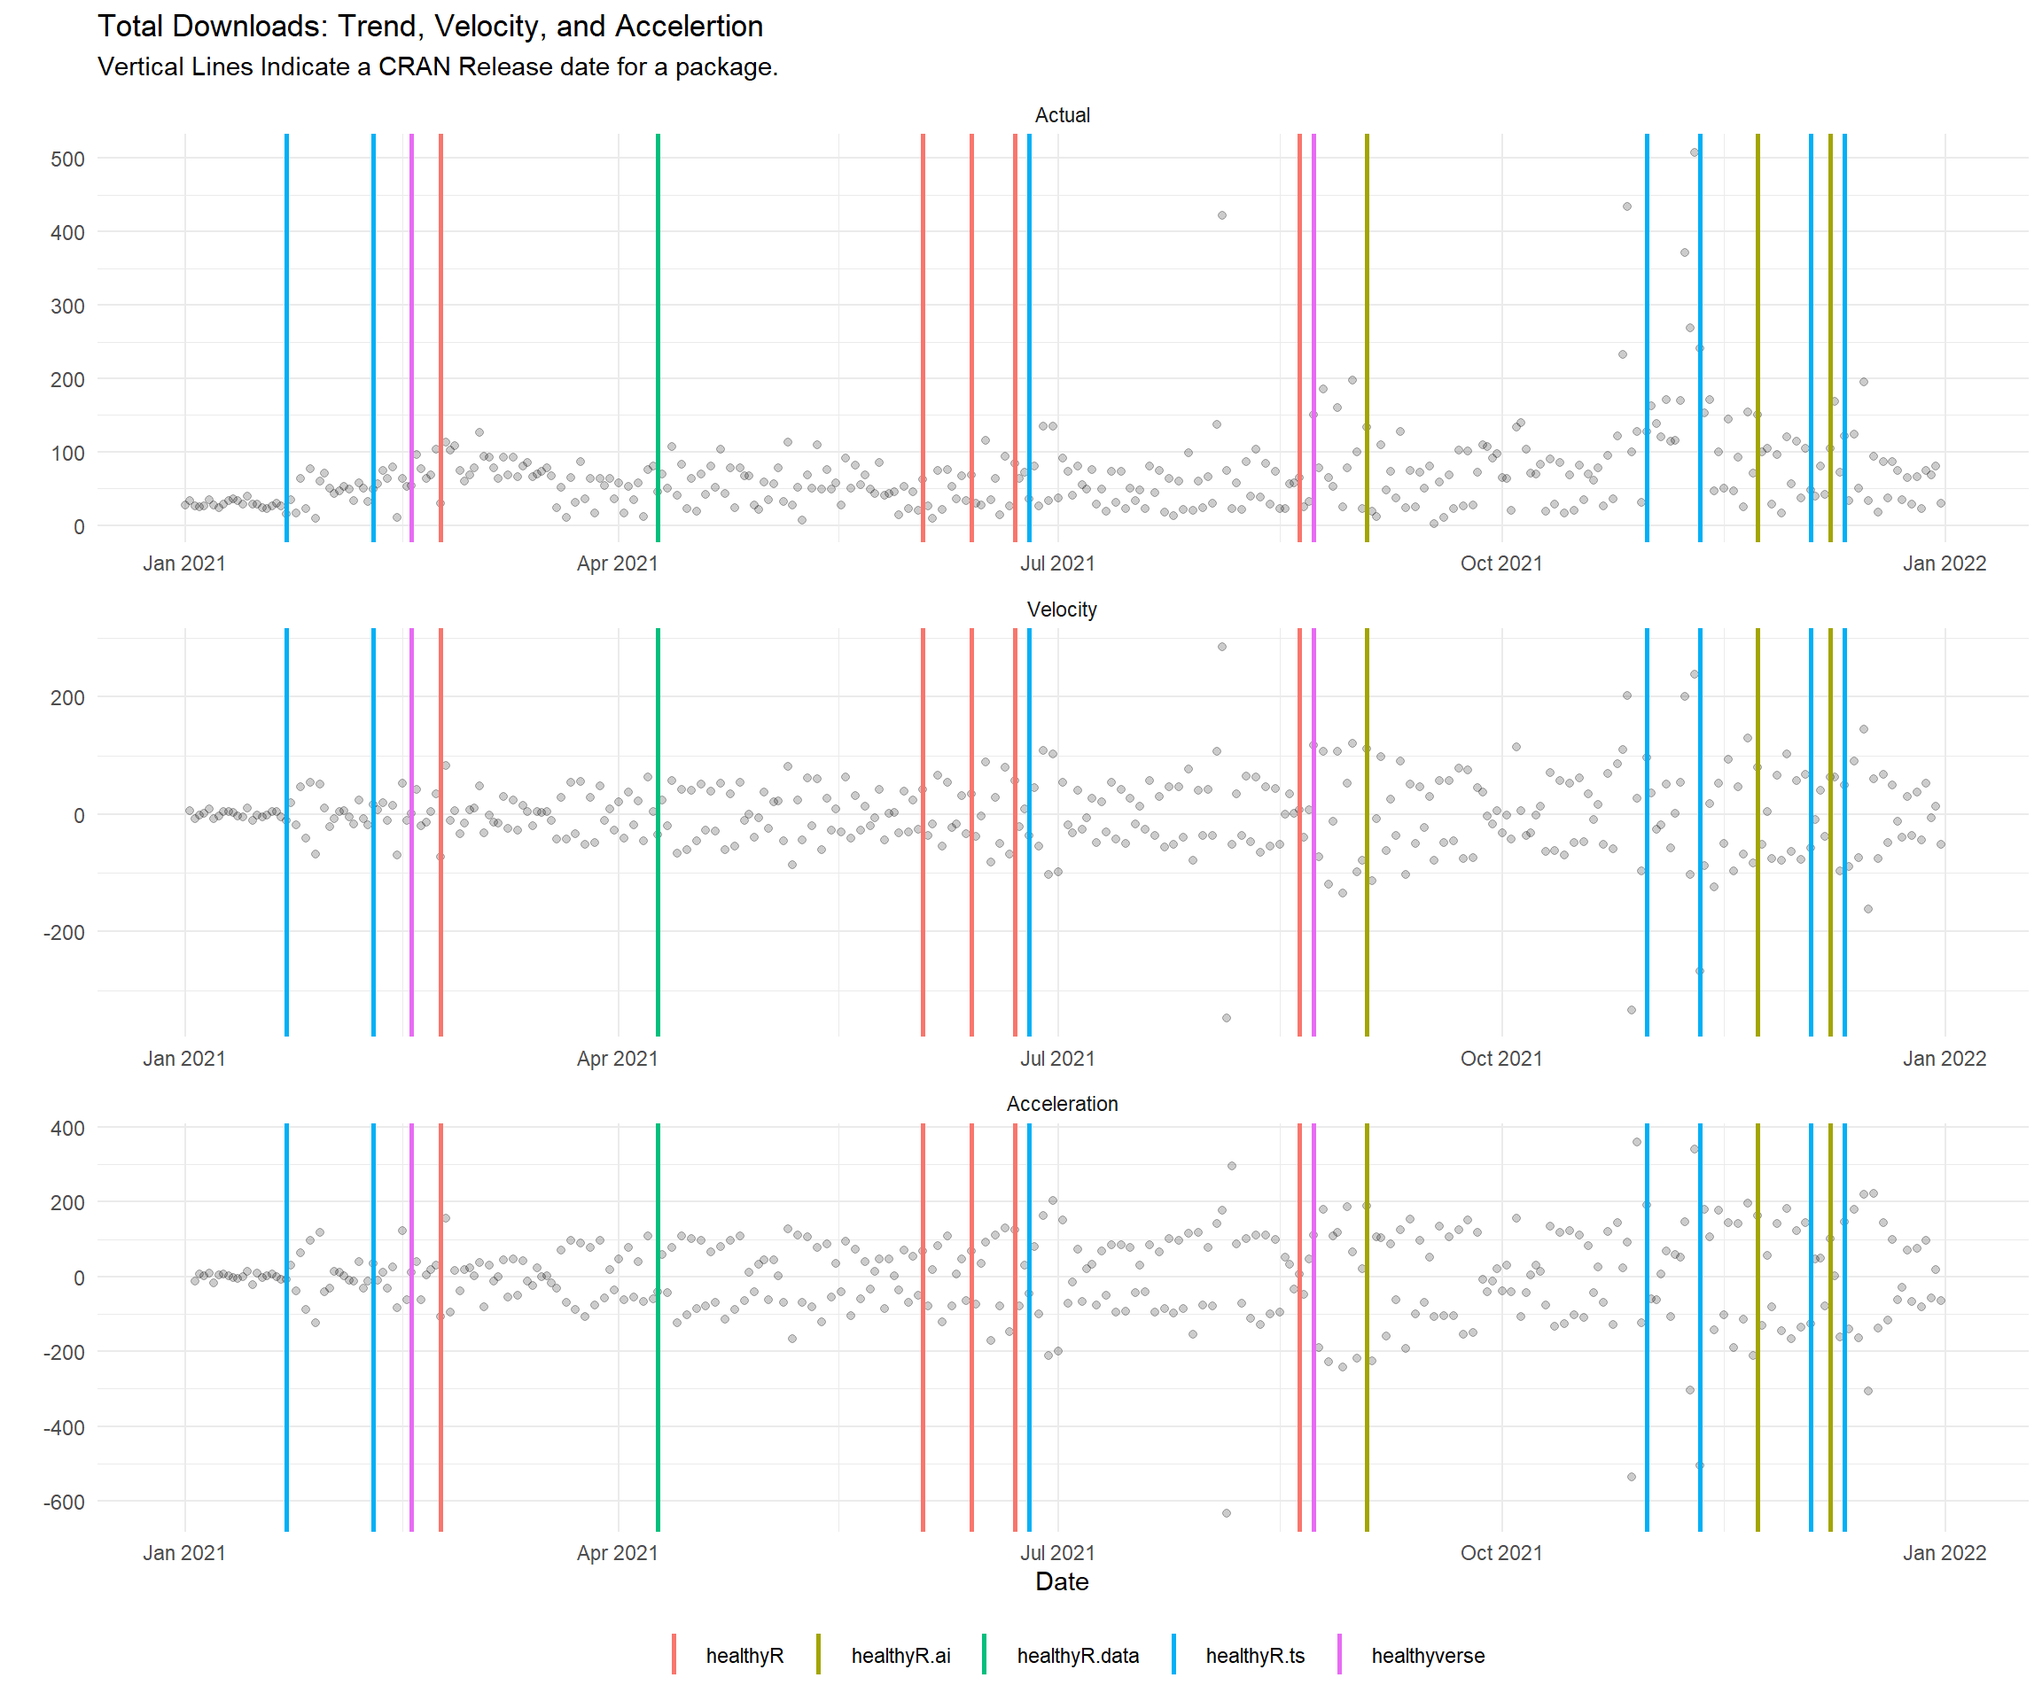
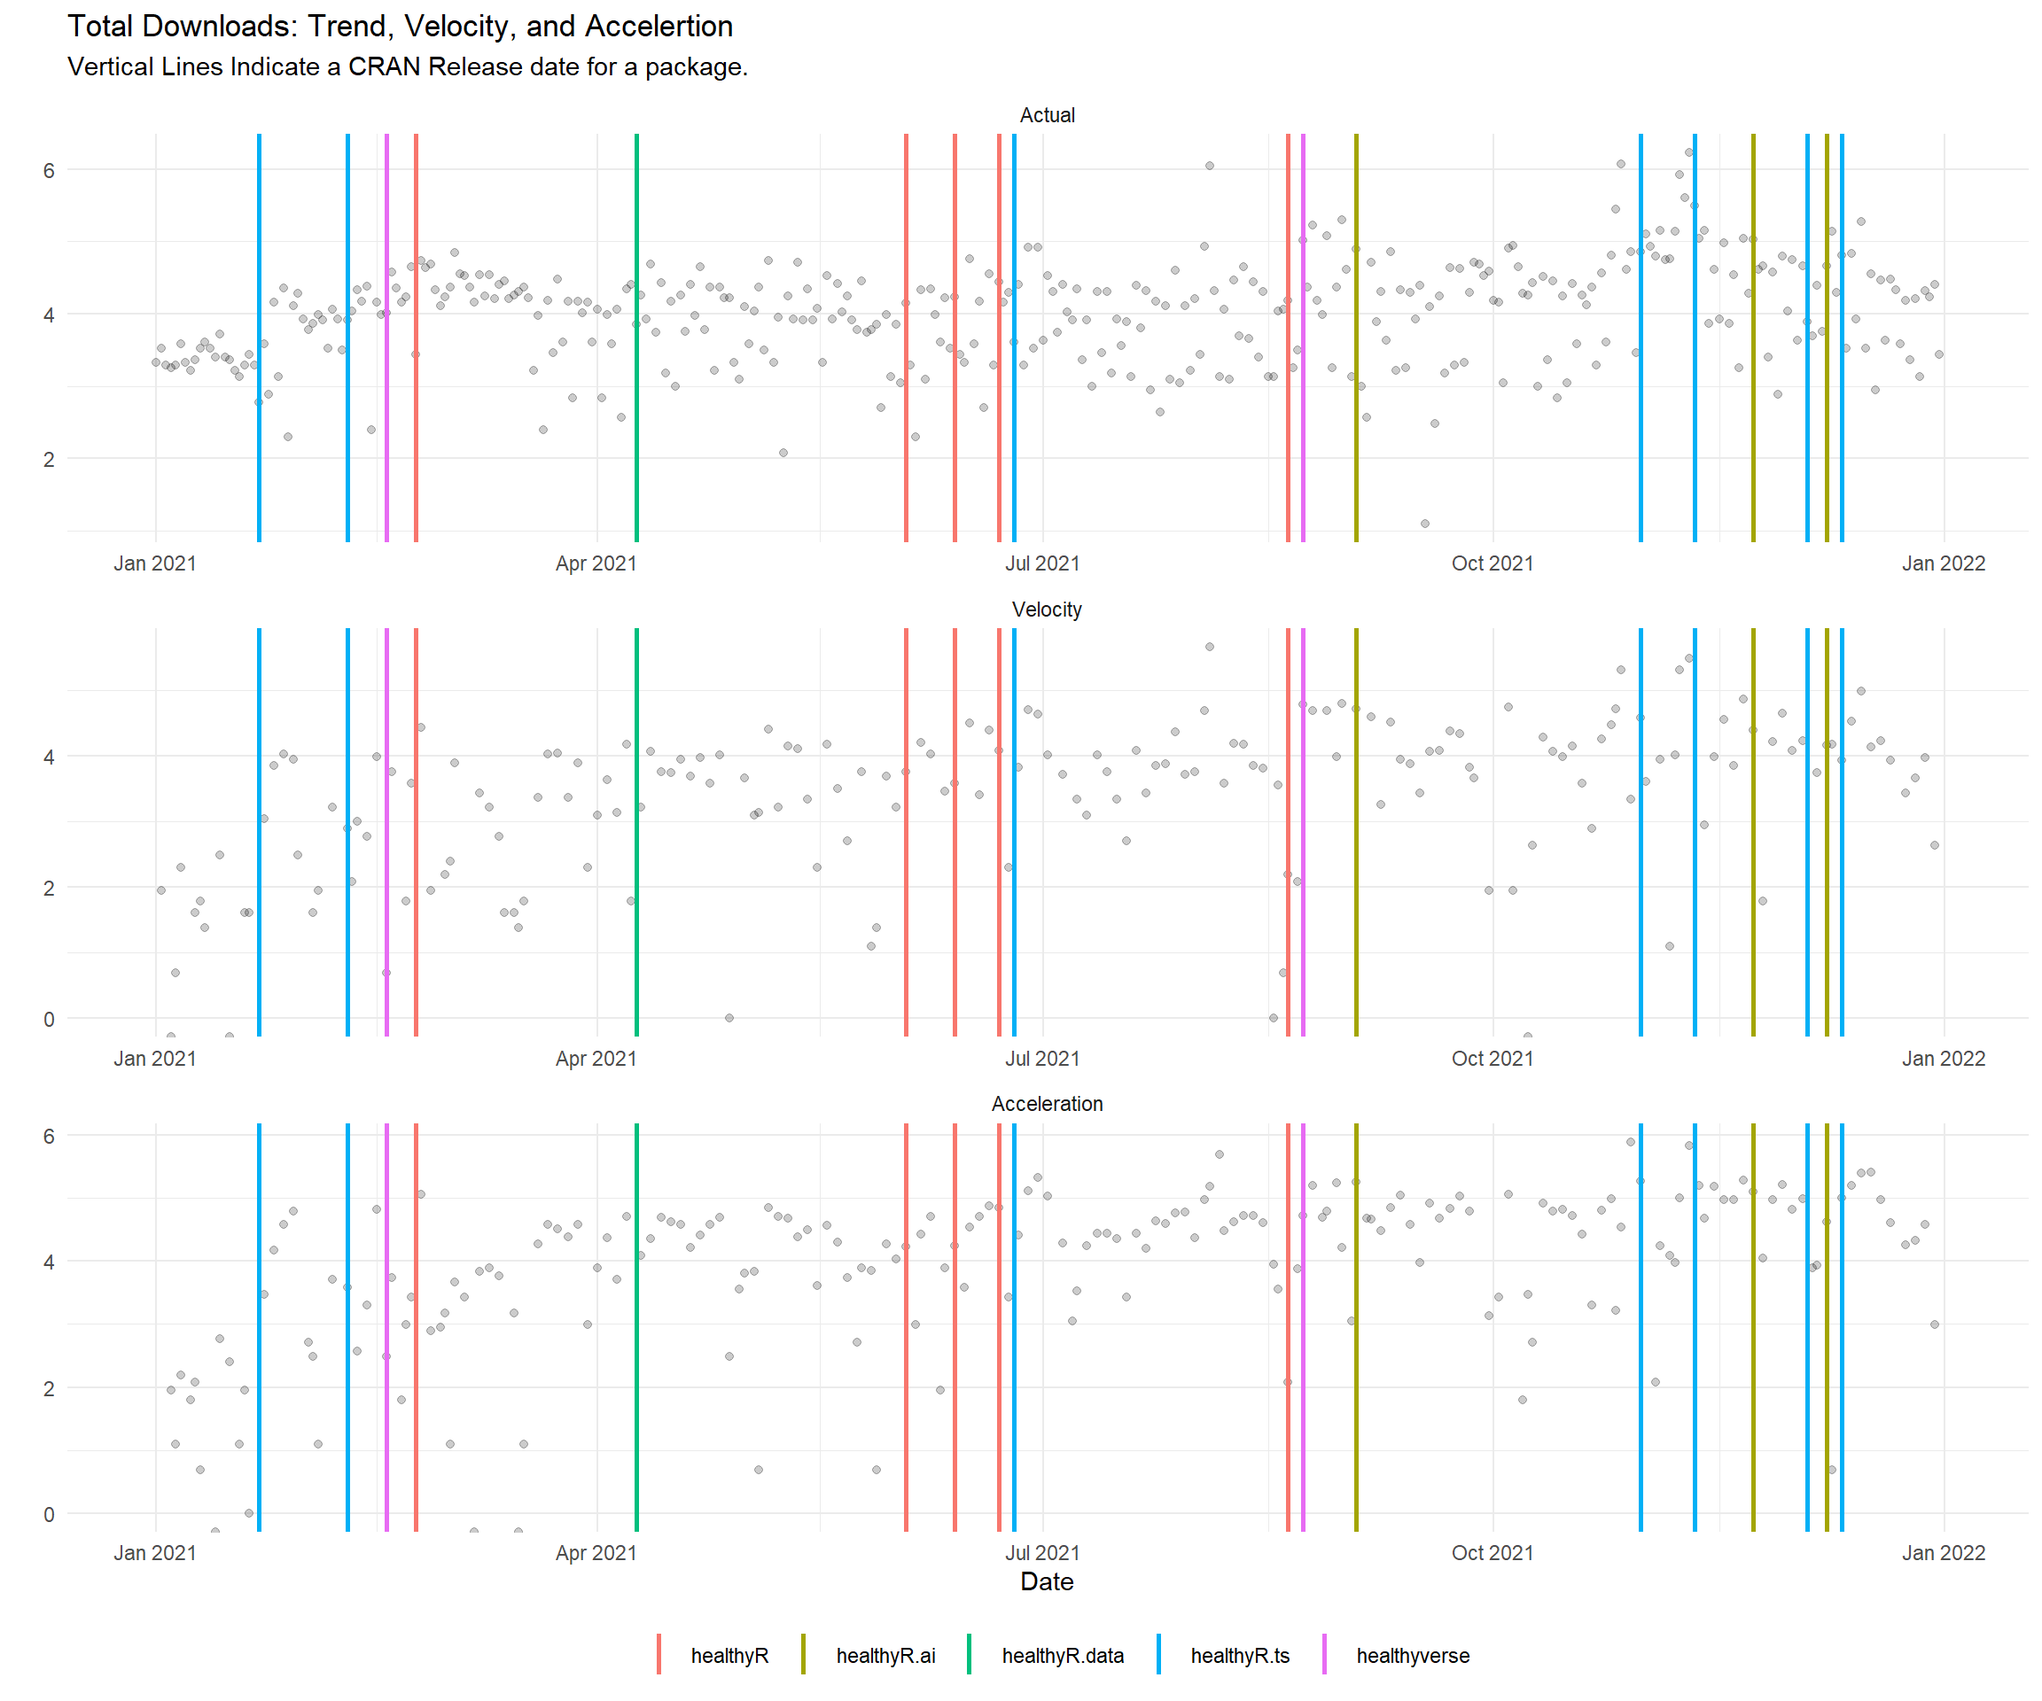
add mapping

diff --git a/year_review_2021.html b/year_review_2021.html
@@ -446,10 +446,11 @@ $(document).ready(function () {
 <span id="cb2-2"><a href="#cb2-2" aria-hidden="true" tabindex="-1"></a><span class="fu">library</span>(lubridate)</span>
 <span id="cb2-3"><a href="#cb2-3" aria-hidden="true" tabindex="-1"></a><span class="fu">source</span>(<span class="st">&quot;01_scripts/get_data_functions.R&quot;</span>)</span>
 <span id="cb2-4"><a href="#cb2-4" aria-hidden="true" tabindex="-1"></a><span class="fu">source</span>(<span class="st">&quot;01_scripts/data_manipulation_functions.R&quot;</span>)</span>
-<span id="cb2-5"><a href="#cb2-5" aria-hidden="true" tabindex="-1"></a></span>
-<span id="cb2-6"><a href="#cb2-6" aria-hidden="true" tabindex="-1"></a><span class="fu">get_cran_data</span>()</span>
-<span id="cb2-7"><a href="#cb2-7" aria-hidden="true" tabindex="-1"></a><span class="fu">get_package_release_data</span>()</span>
-<span id="cb2-8"><a href="#cb2-8" aria-hidden="true" tabindex="-1"></a><span class="fu">csv_to_rds</span>()</span></code></pre></div>
+<span id="cb2-5"><a href="#cb2-5" aria-hidden="true" tabindex="-1"></a><span class="fu">source</span>(<span class="st">&quot;01_scripts/mapping_functions.R&quot;</span>)</span>
+<span id="cb2-6"><a href="#cb2-6" aria-hidden="true" tabindex="-1"></a></span>
+<span id="cb2-7"><a href="#cb2-7" aria-hidden="true" tabindex="-1"></a><span class="fu">get_cran_data</span>()</span>
+<span id="cb2-8"><a href="#cb2-8" aria-hidden="true" tabindex="-1"></a><span class="fu">get_package_release_data</span>()</span>
+<span id="cb2-9"><a href="#cb2-9" aria-hidden="true" tabindex="-1"></a><span class="fu">csv_to_rds</span>()</span></code></pre></div>
 <p>Ok now that we have our data, lets ensure that we are only using the year 2021. We can do this by filtering out data by time with the <a href="https://business-science.github.io/timetk/">timetk</a> package.</p>
 <p>Now lets filter our data below, some pre-processing may need to take place.</p>
 <div class="sourceCode" id="cb3"><pre class="sourceCode r"><code class="sourceCode r"><span id="cb3-1"><a href="#cb3-1" aria-hidden="true" tabindex="-1"></a><span class="fu">library</span>(timetk)</span>
@@ -692,6 +693,7 @@ $(document).ready(function () {
 </tr>
 </tbody>
 </table>
+<p>So all in all there was a total of 24,887 downloads of all the <code>healthyverse</code> packages in 2021.</p>
 <p>Lets graph the data out as well.</p>
 <div class="sourceCode" id="cb8"><pre class="sourceCode r"><code class="sourceCode r"><span id="cb8-1"><a href="#cb8-1" aria-hidden="true" tabindex="-1"></a>data_tbl <span class="sc">%&gt;%</span></span>
 <span id="cb8-2"><a href="#cb8-2" aria-hidden="true" tabindex="-1"></a>  <span class="fu">count</span>(package, version) <span class="sc">%&gt;%</span></span>
@@ -789,7 +791,7 @@ $(document).ready(function () {
 <span id="cb13-8"><a href="#cb13-8" aria-hidden="true" tabindex="-1"></a>  <span class="fu">pivot_longer</span>(<span class="sc">-</span>date) <span class="sc">%&gt;%</span></span>
 <span id="cb13-9"><a href="#cb13-9" aria-hidden="true" tabindex="-1"></a>  <span class="fu">mutate</span>(<span class="at">name =</span> <span class="fu">str_to_title</span>(name)) <span class="sc">%&gt;%</span></span>
 <span id="cb13-10"><a href="#cb13-10" aria-hidden="true" tabindex="-1"></a>  <span class="fu">mutate</span>(<span class="at">name =</span> <span class="fu">as_factor</span>(name)) <span class="sc">%&gt;%</span></span>
-<span id="cb13-11"><a href="#cb13-11" aria-hidden="true" tabindex="-1"></a>  <span class="fu">ggplot</span>(<span class="fu">aes</span>(<span class="at">x =</span> date, <span class="at">y =</span> value, <span class="at">group =</span> name)) <span class="sc">+</span></span>
+<span id="cb13-11"><a href="#cb13-11" aria-hidden="true" tabindex="-1"></a>  <span class="fu">ggplot</span>(<span class="fu">aes</span>(<span class="at">x =</span> date, <span class="at">y =</span> <span class="fu">log1p</span>(value), <span class="at">group =</span> name)) <span class="sc">+</span></span>
 <span id="cb13-12"><a href="#cb13-12" aria-hidden="true" tabindex="-1"></a>  <span class="fu">geom_point</span>(<span class="at">alpha =</span> .<span class="dv">2</span>) <span class="sc">+</span></span>
 <span id="cb13-13"><a href="#cb13-13" aria-hidden="true" tabindex="-1"></a>  <span class="fu">geom_vline</span>(</span>
 <span id="cb13-14"><a href="#cb13-14" aria-hidden="true" tabindex="-1"></a>    <span class="at">data =</span> pkg_tbl</span>
@@ -808,6 +810,108 @@ $(document).ready(function () {
 <span id="cb13-27"><a href="#cb13-27" aria-hidden="true" tabindex="-1"></a>  ) <span class="sc">+</span></span>
 <span id="cb13-28"><a href="#cb13-28" aria-hidden="true" tabindex="-1"></a>  <span class="fu">theme</span>(<span class="at">legend.position =</span> <span class="st">&quot;bottom&quot;</span>)</span></code></pre></div>
 <p><img src="man/figures/README-ts_plots-3.png" width="1152" /></p>
+<div class="sourceCode" id="cb14"><pre class="sourceCode r"><code class="sourceCode r"><span id="cb14-1"><a href="#cb14-1" aria-hidden="true" tabindex="-1"></a>data_tbl <span class="sc">%&gt;%</span></span>
+<span id="cb14-2"><a href="#cb14-2" aria-hidden="true" tabindex="-1"></a>  <span class="fu">ts_downloads_tbl</span>(<span class="at">.by_time =</span> <span class="st">&quot;day&quot;</span>) <span class="sc">%&gt;%</span></span>
+<span id="cb14-3"><a href="#cb14-3" aria-hidden="true" tabindex="-1"></a>  <span class="fu">plot_seasonal_diagnostics</span>(</span>
+<span id="cb14-4"><a href="#cb14-4" aria-hidden="true" tabindex="-1"></a>    <span class="at">.date_var =</span> date,</span>
+<span id="cb14-5"><a href="#cb14-5" aria-hidden="true" tabindex="-1"></a>    <span class="at">.value =</span> <span class="fu">log1p</span>(value),</span>
+<span id="cb14-6"><a href="#cb14-6" aria-hidden="true" tabindex="-1"></a>    <span class="at">.interactive =</span> <span class="cn">FALSE</span></span>
+<span id="cb14-7"><a href="#cb14-7" aria-hidden="true" tabindex="-1"></a>  ) <span class="sc">+</span></span>
+<span id="cb14-8"><a href="#cb14-8" aria-hidden="true" tabindex="-1"></a>  <span class="fu">theme_minimal</span>() <span class="sc">+</span></span>
+<span id="cb14-9"><a href="#cb14-9" aria-hidden="true" tabindex="-1"></a>  <span class="fu">labs</span>(</span>
+<span id="cb14-10"><a href="#cb14-10" aria-hidden="true" tabindex="-1"></a>    <span class="at">title =</span> <span class="st">&quot;Seasonal Diagnostics&quot;</span>,</span>
+<span id="cb14-11"><a href="#cb14-11" aria-hidden="true" tabindex="-1"></a>    <span class="at">subtitle =</span> <span class="st">&quot;Values are log1p&quot;</span></span>
+<span id="cb14-12"><a href="#cb14-12" aria-hidden="true" tabindex="-1"></a>  )</span></code></pre></div>
+<p><img src="man/figures/README-ts_plots-4.png" width="1152" /></p>
+<div class="sourceCode" id="cb15"><pre class="sourceCode r"><code class="sourceCode r"><span id="cb15-1"><a href="#cb15-1" aria-hidden="true" tabindex="-1"></a>data_tbl <span class="sc">%&gt;%</span></span>
+<span id="cb15-2"><a href="#cb15-2" aria-hidden="true" tabindex="-1"></a>  <span class="fu">ts_downloads_tbl</span>(<span class="at">.by_time =</span> <span class="st">&quot;day&quot;</span>) <span class="sc">%&gt;%</span></span>
+<span id="cb15-3"><a href="#cb15-3" aria-hidden="true" tabindex="-1"></a>  <span class="fu">plot_stl_diagnostics</span>(</span>
+<span id="cb15-4"><a href="#cb15-4" aria-hidden="true" tabindex="-1"></a>    <span class="at">.date_var =</span> date,</span>
+<span id="cb15-5"><a href="#cb15-5" aria-hidden="true" tabindex="-1"></a>    <span class="at">.value =</span> <span class="fu">log1p</span>(value),</span>
+<span id="cb15-6"><a href="#cb15-6" aria-hidden="true" tabindex="-1"></a>    <span class="at">.interactive =</span> <span class="cn">FALSE</span></span>
+<span id="cb15-7"><a href="#cb15-7" aria-hidden="true" tabindex="-1"></a>  ) <span class="sc">+</span></span>
+<span id="cb15-8"><a href="#cb15-8" aria-hidden="true" tabindex="-1"></a>  <span class="fu">theme_minimal</span>() <span class="sc">+</span></span>
+<span id="cb15-9"><a href="#cb15-9" aria-hidden="true" tabindex="-1"></a>  <span class="fu">labs</span>(</span>
+<span id="cb15-10"><a href="#cb15-10" aria-hidden="true" tabindex="-1"></a>    <span class="at">title =</span> <span class="st">&quot;STL Diagnostics&quot;</span>,</span>
+<span id="cb15-11"><a href="#cb15-11" aria-hidden="true" tabindex="-1"></a>    <span class="at">subtitle =</span> <span class="st">&quot;Values are log1p&quot;</span></span>
+<span id="cb15-12"><a href="#cb15-12" aria-hidden="true" tabindex="-1"></a>  )</span></code></pre></div>
+<p><img src="man/figures/README-ts_plots-5.png" width="1152" /></p>
+</div>
+<div id="mapping" class="section level1">
+<h1>Mapping</h1>
+<p>So now that we have seen all the downloads in variaous ways, where did they all come from? Lets take a look.</p>
+<div class="sourceCode" id="cb16"><pre class="sourceCode r"><code class="sourceCode r"><span id="cb16-1"><a href="#cb16-1" aria-hidden="true" tabindex="-1"></a><span class="fu">library</span>(tmaptools)</span>
+<span id="cb16-2"><a href="#cb16-2" aria-hidden="true" tabindex="-1"></a><span class="fu">library</span>(countrycode)</span>
+<span id="cb16-3"><a href="#cb16-3" aria-hidden="true" tabindex="-1"></a><span class="fu">library</span>(mapview)</span>
+<span id="cb16-4"><a href="#cb16-4" aria-hidden="true" tabindex="-1"></a></span>
+<span id="cb16-5"><a href="#cb16-5" aria-hidden="true" tabindex="-1"></a><span class="fu">mapping_dataset</span>(<span class="at">.data_year =</span> <span class="st">&quot;2021&quot;</span>) <span class="sc">%&gt;%</span></span>
+<span id="cb16-6"><a href="#cb16-6" aria-hidden="true" tabindex="-1"></a>  <span class="fu">head</span>() <span class="sc">%&gt;%</span></span>
+<span id="cb16-7"><a href="#cb16-7" aria-hidden="true" tabindex="-1"></a>  knitr<span class="sc">::</span><span class="fu">kable</span>()</span></code></pre></div>
+<table>
+<colgroup>
+<col width="11%" />
+<col width="5%" />
+<col width="6%" />
+<col width="27%" />
+<col width="48%" />
+</colgroup>
+<thead>
+<tr class="header">
+<th align="left">country</th>
+<th align="right">latitude</th>
+<th align="right">longitude</th>
+<th align="left">display_name</th>
+<th align="left">icon</th>
+</tr>
+</thead>
+<tbody>
+<tr class="odd">
+<td align="left">Ghana</td>
+<td align="right">8.030028</td>
+<td align="right">-1.080027</td>
+<td align="left">Ghana</td>
+<td align="left"><a href="https://nominatim.openstreetmap.org/ui/mapicons//poi_boundary_administrative.p.20.png" class="uri">https://nominatim.openstreetmap.org/ui/mapicons//poi_boundary_administrative.p.20.png</a></td>
+</tr>
+<tr class="even">
+<td align="left">United States</td>
+<td align="right">39.783730</td>
+<td align="right">-100.445882</td>
+<td align="left">United States</td>
+<td align="left"><a href="https://nominatim.openstreetmap.org/ui/mapicons//poi_boundary_administrative.p.20.png" class="uri">https://nominatim.openstreetmap.org/ui/mapicons//poi_boundary_administrative.p.20.png</a></td>
+</tr>
+<tr class="odd">
+<td align="left">Hong Kong SAR China</td>
+<td align="right">22.350627</td>
+<td align="right">114.184916</td>
+<td align="left">&lt;U+9999&gt;&lt;U+6E2F&gt; Hong Kong, &lt;U+4E2D&gt;&lt;U+56FD&gt;</td>
+<td align="left"><a href="https://nominatim.openstreetmap.org/ui/mapicons//poi_boundary_administrative.p.20.png" class="uri">https://nominatim.openstreetmap.org/ui/mapicons//poi_boundary_administrative.p.20.png</a></td>
+</tr>
+<tr class="even">
+<td align="left">Canada</td>
+<td align="right">61.066692</td>
+<td align="right">-107.991707</td>
+<td align="left">Canada</td>
+<td align="left"><a href="https://nominatim.openstreetmap.org/ui/mapicons//poi_boundary_administrative.p.20.png" class="uri">https://nominatim.openstreetmap.org/ui/mapicons//poi_boundary_administrative.p.20.png</a></td>
+</tr>
+<tr class="odd">
+<td align="left">China</td>
+<td align="right">35.000074</td>
+<td align="right">104.999927</td>
+<td align="left">&lt;U+4E2D&gt;&lt;U+56FD&gt;</td>
+<td align="left"><a href="https://nominatim.openstreetmap.org/ui/mapicons//poi_boundary_administrative.p.20.png" class="uri">https://nominatim.openstreetmap.org/ui/mapicons//poi_boundary_administrative.p.20.png</a></td>
+</tr>
+<tr class="even">
+<td align="left">Jordan</td>
+<td align="right">31.166705</td>
+<td align="right">36.941628</td>
+<td align="left">&lt;U+0627&gt;&lt;U+0644&gt;&lt;U+0623&gt;&lt;U+0631&gt;&lt;U+062F&gt;&lt;U+0646&gt;</td>
+<td align="left"><a href="https://nominatim.openstreetmap.org/ui/mapicons//poi_boundary_administrative.p.20.png" class="uri">https://nominatim.openstreetmap.org/ui/mapicons//poi_boundary_administrative.p.20.png</a></td>
+</tr>
+</tbody>
+</table>
+<div class="sourceCode" id="cb17"><pre class="sourceCode r"><code class="sourceCode r"><span id="cb17-1"><a href="#cb17-1" aria-hidden="true" tabindex="-1"></a>l <span class="ot">&lt;-</span> <span class="fu">map_leaflet</span>(<span class="at">.data =</span> data_tbl)</span>
+<span id="cb17-2"><a href="#cb17-2" aria-hidden="true" tabindex="-1"></a><span class="fu">mapshot</span>(<span class="at">x =</span> l, <span class="at">file =</span> <span class="st">&quot;map.png&quot;</span>)</span></code></pre></div>
+<p><img src="map.png" alt="map of downloads" /> There was a total of 96 different countries that downloaded <code>healthyverse</code> packages in 2021.</p>
 </div>
 <div id="github-stats" class="section level1">
 <h1>GitHub Stats</h1>
